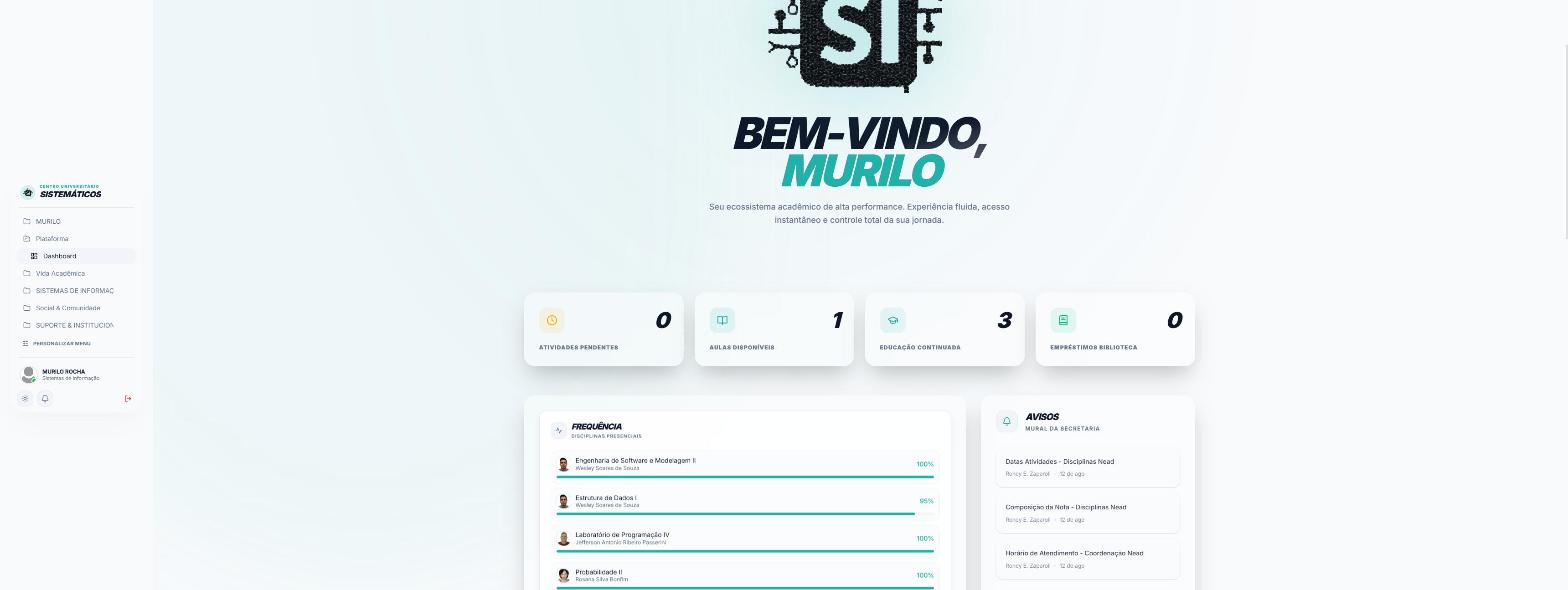
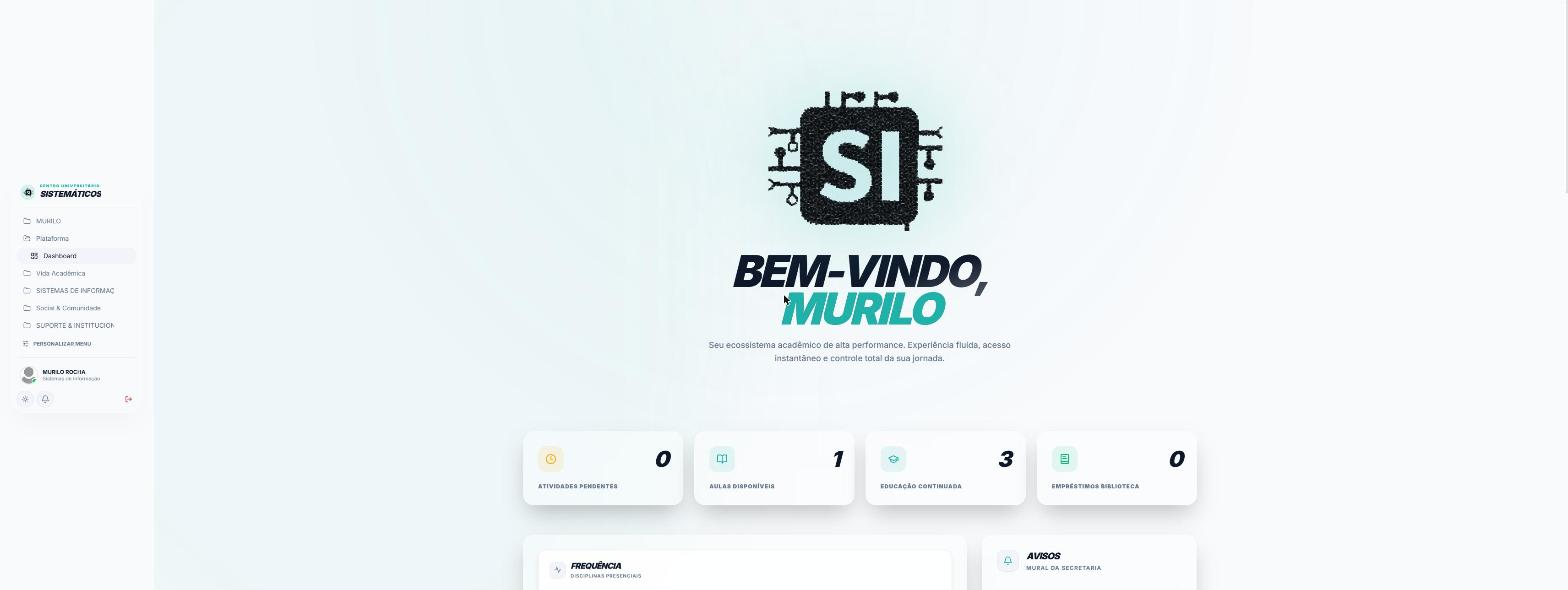
Atualiza screenshots (desktop 3440x1440 + mobile) e adiciona seção Mobile ao README
Retoma as capturas após as mudanças recentes no produto, alinhando os
prints ao conjunto de módulos atual e reintroduzindo a seção de telas
mobile para reforçar o layout responsivo (bottom nav, não apenas escala).

diff --git a/ARCHITECTURE.md b/ARCHITECTURE.md
@@ -92,7 +92,6 @@ Pontos importantes:
 - **Interstitials automáticos:** o portal às vezes intercala modais obrigatórios (comunicados, "altere sua senha") entre o login e a home. O servidor detecta esses formulários pelo `id` e envia o clique de dispensa via o mesmo protocolo `partial/ajax`, em loop, até a página real aparecer (limite de 5 iterações).
 - **Detecção de semestre:** não existe um campo "semestre atual" pronto no portal. O servidor varre os `<select>` de ano/semestre do boletim, identifica o mais antigo disponível e calcula quantos semestres se passaram até hoje.
 - **Modo convidado** não passa por nada disso: é um usuário fictício criado inteiramente no cliente (`loginAsGuest()`), sem cookie de sessão real e sem qualquer contato com a FEF.
-- **Recuperação de senha** (`POST /api/recover-password`) não reimplementa nada por conta própria: o servidor emula o mesmo formulário "esqueci minha senha" do portal oficial (RA, e-mail e data de nascimento), a validação de quem confere ou não os dados acontece inteiramente do lado da FEF.
 
 ### Exemplo: requisição e resposta
 
@@ -273,7 +272,7 @@ O que o frontend efetivamente recebe — HTML nenhum, só dados prontos para ren
 
 ## Mapa de rotas da API
 
-O servidor expõe quase 80 rotas HTTP, agrupadas por domínio:
+O servidor expõe pouco mais de 60 rotas HTTP, agrupadas por domínio:
 
 | Domínio | Rotas principais | Propósito |
 | :-- | :-- | :-- |
@@ -288,9 +287,6 @@ O servidor expõe quase 80 rotas HTTP, agrupadas por domínio:
 | **Sugestões** | `GET/POST/PUT/DELETE /api/public/sugestoes` (+ `/vote`, `/comment`, `/status`) | Mural de ideias com votação e comentários |
 | **Doações** | `POST /api/donations/checkout`, `/webhook`, `GET /verify/:id`, `/stats` | Doações voluntárias via PIX (InfinitePay), com ranking de apoiadores |
 | **Atlética / Classroom** | `GET/POST /api/atletica*`, `GET /api/classroom` | Loja e agenda da atlética, feed de materiais do Classroom |
-| **Perfil social** | `POST /api/public/alunos/like`, `/update`, `/upload` | Curtir perfil de colega, editar bio/redes/galeria/privacidade, upload de foto |
-| **Notificações institucionais** | `GET /api/fef-notifications`, `POST /api/avisos/read` | Espelha os avisos nativos do portal oficial e marca comunicados como lidos |
-| **Administração financeira interna** | `GET /api/payments` | Painel restrito a admins para controle de inscrições pagas em eventos internos do curso (não é o financeiro do aluno — isso é `/api/mensalidade`) |
 | **Infra** | `GET /api/proxy/photo`, `/api/proxy/ping` | Proxy de foto de perfil (evita expor o cookie da FEF ao navegador do aluno) e healthcheck |
 
 Todas as rotas sob `/api/*` (exceto login/logout/session) passam primeiro pelo rate limiter geral e pelo `fefSessionMiddleware` descrito acima.
@@ -364,13 +360,12 @@ socket.emit('new_message', {
 src/
 ├── pages/         # uma página por rota, lazy-loaded via React Router
 │   ├── Termos.tsx, Privacidade.tsx   # documentos legais reais, servidos em /termos e /privacidade
-│   ├── Hub.tsx                       # simulador de CR, banco de provas, carreira, rede — em rollout, não linkado no menu ainda
-│   └── Ferramentas.tsx               # monitor de aprovação (dados reais) + gerador de capa ABNT
+│   ├── Hub.tsx                       # calculadora de médias, banco de provas, carreira, rede
+│   └── Ferramentas.tsx               # gerador de capa ABNT, simulador de aprovação
 ├── components/
-│   ├── layout/    # Sidebar (com personalização), BottomNav, CommandPalette, SidebarCustomizeModal, modais globais
-│   ├── home/      # widgets do dashboard: clima (Open-Meteo), calendário institucional, notícias, atividades pendentes
+│   ├── layout/    # Sidebar, BottomNav, CommandPalette, modais globais
 │   ├── common/    # elementos reutilizáveis entre páginas (inclui CookieConsentBanner)
-│   └── ui/        # primitivos shadcn/ui (Radix / Base UI)
+│   └── ui/        # primitivos shadcn/ui (Radix)
 ├── contexts/      # AuthContext, SocketContext, ThemeContext, NotificationContext
 ├── hooks/ · lib/  # utilitários
 ```
@@ -380,9 +375,6 @@ src/
 - **Tailwind CSS v4** com tokens semânticos (`--primary`, `--background`, `--card`) via `@theme inline`, permitindo alternância instantânea de tema sem repintura.
 - **PWA com cache seletivo:** o Service Worker (Workbox, via `vite-plugin-pwa`) tem uma allowlist explícita por regex — só `avisos`, `fef-landing`, notícias e cursos entram no cache (`NetworkFirst`). Boletim, mensalidade e horário nunca são cacheados, para que dados pessoais não sobrevivam num dispositivo compartilhado.
 - **Consentimento de cookies client-side:** `CookieConsentBanner` só decide entre "essenciais" e "todos" e grava a escolha em `localStorage` — não existe cookie de rastreamento de terceiros para consentir em primeiro lugar.
-- **Navegação personalizável:** a Sidebar é organizada em grupos (ex.: *Vida Acadêmica*, *Social & Comunidade*, grupos restritos a admin); `SidebarCustomizeModal` deixa o aluno esconder grupos ou itens individuais, com a preferência salva por conta. Um `CommandPalette` (`Ctrl+K`) espelha o mesmo mapa de rotas com busca fuzzy, já filtrando por permissão (admin/convidado) antes de listar o comando.
-- **Responsivo por layout, não por escala:** abaixo do breakpoint `lg`, a `Sidebar` fixa dá lugar a um `BottomNav` de navegação inferior — não é a mesma árvore de componentes encolhida, é uma troca deliberada de padrão de navegação para uso de uma mão em celular.
-- **Widgets do dashboard rodam client-side:** o widget de clima consome a API pública do Open-Meteo diretamente do navegador (sem chave, sem passar pelo backend), fixado nas coordenadas de Fernandópolis; o calendário institucional e o painel de atividades pendentes reaproveitam `/api/calendario`, `/api/matriz` e `/api/boletim` já buscados por outras telas em vez de criar endpoints novos.
 
 ---
 
@@ -412,8 +404,6 @@ npm start       # sobe o Express, que passa a servir dist/ + API + WebSocket jun
 | Modo convidado 100% client-side | Convidado com sessão real no servidor | Não há necessidade de tocar a FEF para dar um preview da interface a quem ainda não é aluno |
 | Calculadoras do Hub/Ferramentas rodam sobre dados já buscados (`/api/boletim`) | Rota de API dedicada para cada simulação | Simulador de médias e gerador de capa ABNT são só matemática/template em cima do que a tela já carregou — criar uma rota nova por ferramenta seria superfície de API sem necessidade real |
 | Doações via link de checkout de terceiro (InfinitePay) | Processar cartão/PIX diretamente no servidor | O Sistemáticos nunca vê nem guarda dado de pagamento — o servidor só cria o link e escuta o webhook de confirmação, o que também mantém o projeto fora do escopo de conformidade de meios de pagamento |
-| Widget de clima chama o Open-Meteo direto do navegador | Proxear a chamada pelo próprio backend | API pública, sem chave e sem dado pessoal no payload (só coordenadas fixas da cidade) — um proxy só adicionaria latência sem ganho de segurança |
-| Hub Acadêmico publicado com conteúdo demonstrativo antes de estar 100% ligado a dados reais | Esconder a página até terminar | A interface (design, motion, layout) já reflete a visão final do módulo; o texto deixa claro o que é simulação enquanto os dados reais (banco de provas, vagas) são integrados aos poucos |
 
 ---
 

diff --git a/README.md b/README.md
@@ -49,7 +49,6 @@ O **Sistemáticos** nasceu dessa frustração como aluno. Em vez de mais um sist
 - **Zero atrito** — notas, faltas, horários, boletos e materiais em uma SPA fluida, sem recarregar página.
 - **Sem duplicação de dados** — cada informação é buscada ao vivo direto do portal institucional; nada de notas desatualizadas em um banco paralelo.
 - **Ecossistema completo** — financeiro com PIX, chat em tempo real, integração com Google Classroom, Kanban de tarefas e uma pequena rede social entre os próprios alunos do curso.
-- **Navegação sob medida** — menu lateral personalizável (o aluno escolhe o que aparece), busca universal por comando (`Ctrl+K`) e layout que se adapta de verdade a celular e tablet, não só encolhe.
 
 > **Nota:** este repositório é uma *vitrine técnica*. O código-fonte do motor de sincronização e automação é proprietário e não é distribuído publicamente.
 
@@ -93,14 +92,13 @@ Pedir para um aluno digitar o RA e a senha institucional em um site que não é 
 | **Financeiro** | Mensalidades em aberto e quitadas, boleto e QR Code PIX para pagamento instantâneo. |
 | **Comunicação** | Chat em tempo real da turma/curso, mensagens diretas privadas entre colegas e central de suporte. |
 | **Classroom** | Feed de materiais e atividades sincronizado com o Google Classroom das disciplinas. |
-| **Ferramentas** | Monitor de aprovação (quanto falta na P2, calculado em cima do boletim já carregado) e gerador de capa em padrão ABNT com autopreenchimento. |
+| **Hub Acadêmico** | Calculadora de médias, banco de provas antigas, trilha de carreira e networking entre alunos — extensões que rodam em cima dos dados já carregados, sem novas chamadas ao portal. |
+| **Ferramentas** | Gerador de capa no padrão ABNT com autopreenchimento (curso, autor, instituição) e simulador de aprovação. |
 | **Tarefas** | Quadro Kanban pessoal para organizar entregas, trabalhos e provas. |
 | **Avisos e gestão** | Mural de comunicados por curso/semestre, com painel administrativo para representantes de turma. |
-| **Comunidade** | Diretório de estudantes e professores com perfil social (bio, redes, galeria, controle de privacidade por campo), central de sugestões com votação, e loja da atlética. |
+| **Comunidade** | Diretório de estudantes e professores, central de sugestões com votação, e loja da atlética. |
 | **Apoio ao projeto** | Doações voluntárias via PIX, com ranking opcional de apoiadores — mantém a infraestrutura sem cobrar do aluno. |
-| **Interface** | Tema claro/escuro, menu lateral personalizável, busca universal (`Ctrl+K`) e instalação como app (PWA) no celular ou computador. |
-
-> Um **Hub Acadêmico** (simulador de CR, banco de provas, vitrine de vagas e mentoria) já existe desenhado na plataforma, mas ainda está em rollout gradual — a interface está pronta, porém parte do conteúdo hoje é só demonstrativo enquanto os dados reais são conectados.
+| **Interface** | Tema claro/escuro, busca universal (`Ctrl+K`) e instalação como app (PWA) no celular ou computador. |
 
 <br>
 
@@ -139,8 +137,6 @@ Pedir para um aluno digitar o RA e a senha institucional em um site que não é 
 
 ## Capturas de tela
 
-### Desktop
-
 <p align="center">
   <img src="./screenshots/01-login.png" alt="Login" width="49%" />
   <img src="./screenshots/03-dashboard-light.png" alt="Dashboard" width="49%" />
@@ -148,25 +144,15 @@ Pedir para um aluno digitar o RA e a senha institucional em um site que não é 
 
 <p align="center">
   <img src="./screenshots/04-boletim.png" alt="Boletim" width="49%" />
-  <img src="./screenshots/08-mensalidade.png" alt="Financeiro" width="49%" />
-</p>
-
-<p align="center">
-  <img src="./screenshots/05-ferramentas.png" alt="Ferramentas" width="49%" />
-  <img src="./screenshots/07-busca-rapida.png" alt="Busca universal (Ctrl+K)" width="49%" />
-</p>
-
-<p align="center">
-  <img src="./screenshots/06-personalizar-menu.png" alt="Personalizar menu lateral" width="49%" />
+  <img src="./screenshots/05-mensalidade.png" alt="Financeiro" width="49%" />
 </p>
 
 ### Mobile
 
 <p align="center">
-  <img src="./screenshots/09-mobile-iphone-login.png" alt="Login em iPhone" width="24%" />
-  <img src="./screenshots/10-mobile-iphone-dashboard.png" alt="Dashboard em iPhone" width="24%" />
-  <img src="./screenshots/11-mobile-android-dashboard.png" alt="Dashboard em Android" width="24%" />
-  <img src="./screenshots/12-mobile-tablet-dashboard.png" alt="Dashboard em tablet" width="24%" />
+  <img src="./screenshots/06-mobile-login.png" alt="Login em celular" width="24%" />
+  <img src="./screenshots/07-mobile-dashboard.png" alt="Dashboard em celular" width="24%" />
+  <img src="./screenshots/08-mobile-boletim.png" alt="Boletim em celular" width="24%" />
 </p>
 
 > A sidebar desktop vira navegação inferior (bottom nav) em telas de celular — não é a mesma interface encolhida, é outro layout, pensado para uso de uma mão.
@@ -178,9 +164,8 @@ Pedir para um aluno digitar o RA e a senha institucional em um site que não é 
 - **Frontend**
   - React 19 + TypeScript
   - Vite 6
-  - Tailwind CSS v4 + shadcn/ui (Radix / Base UI)
+  - Tailwind CSS v4 + shadcn/ui
   - Framer Motion
-  - Recharts _(gráficos de desempenho)_
 - **Backend**
   - Node.js + Express 5
   - Socket.IO _(tempo real, multiplexado em salas)_
@@ -209,7 +194,7 @@ flowchart LR
     Server <-- "scraping ao vivo" --> FEF
 ```
 
-O documento **[ARCHITECTURE.md](./ARCHITECTURE.md)** é a referência completa para desenvolvedores e curiosos: diagramas de sequência do fluxo de login e da renovação automática de sessão, o adaptador de scraping reaproveitado por toda a camada acadêmica, o mapa completo das quase 80 rotas da API (com exemplos de request/response em JSON), a topologia de salas do Socket.IO e as decisões de arquitetura (e seus trade-offs) por trás de cada escolha.
+O documento **[ARCHITECTURE.md](./ARCHITECTURE.md)** é a referência completa para desenvolvedores e curiosos: diagramas de sequência do fluxo de login e da renovação automática de sessão, o adaptador de scraping reaproveitado por toda a camada acadêmica, o mapa completo das mais de 60 rotas da API (com exemplos de request/response em JSON), a topologia de salas do Socket.IO e as decisões de arquitetura (e seus trade-offs) por trás de cada escolha.
 
 Um gostinho do que tem lá — o formato de resposta do login, já sem nenhum dado da sessão institucional:
 
